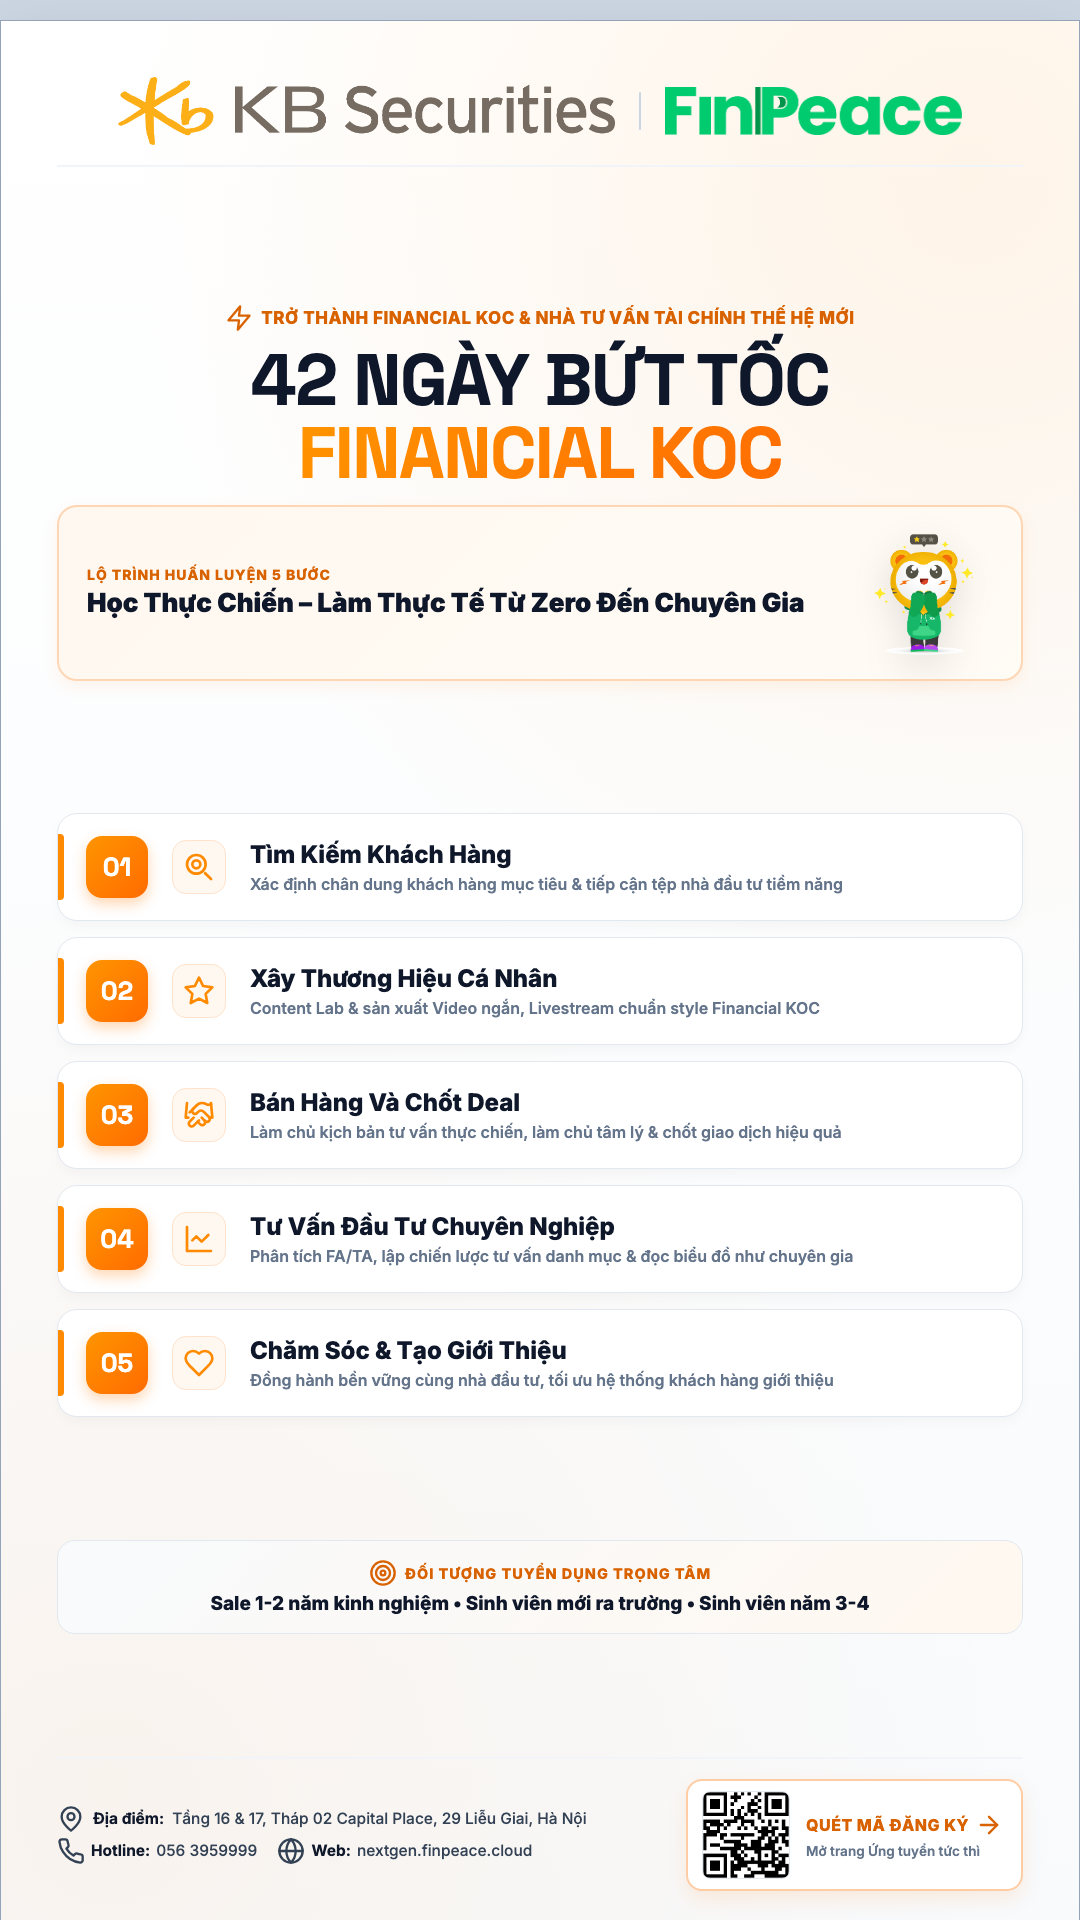
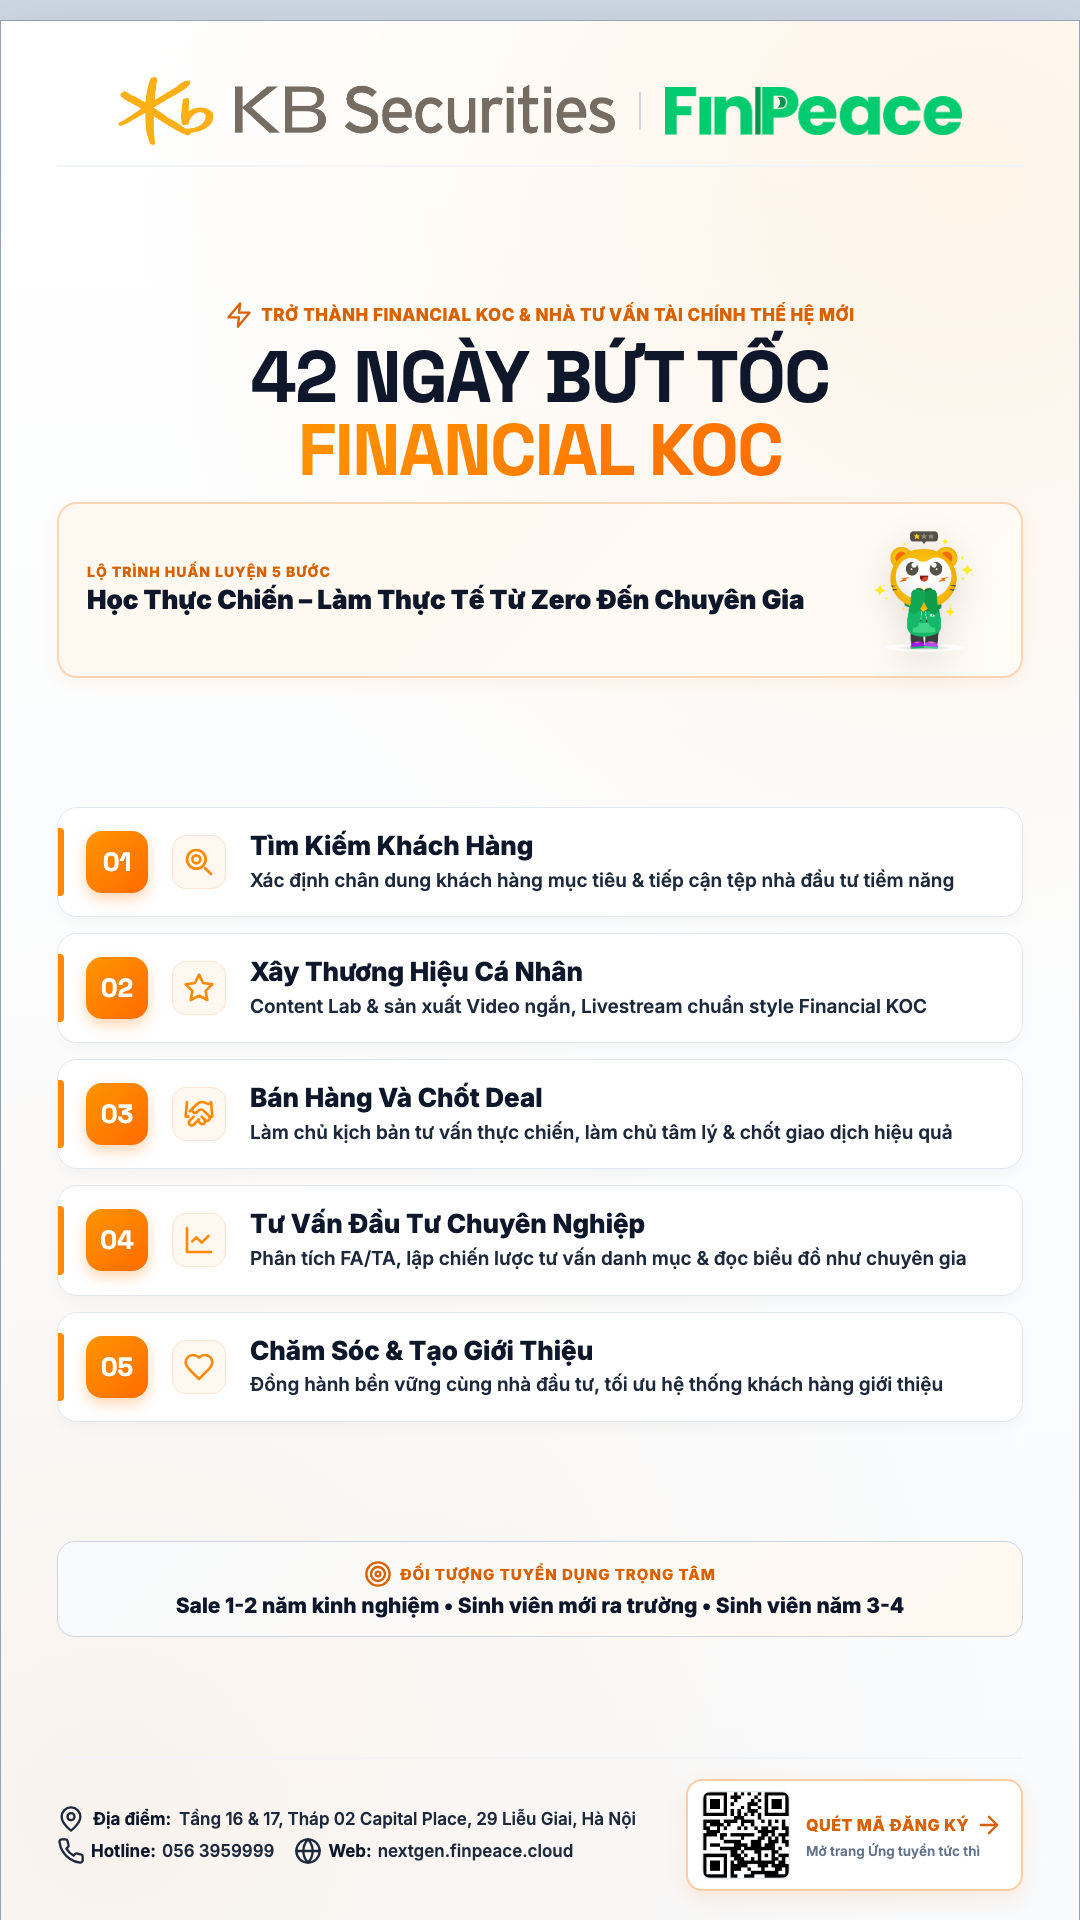
Increase main body text font size, weight and clarity for poster and mobile post

diff --git a/poster.html b/poster.html
@@ -133,13 +133,13 @@
         }
 
         .program-description {
-            font-size: 19.5px;
-            line-height: 1.52;
-            color: #334155;
-            font-weight: 600;
+            font-size: 22px;
+            line-height: 1.5;
+            color: #0f172a;
+            font-weight: 700;
             background: #f8fafc;
-            border-left: 5px solid #FF8A00;
-            padding: 18px 22px;
+            border-left: 6px solid #FF8A00;
+            padding: 20px 24px;
             border-radius: 0 14px 14px 0;
             border-top: 1px solid #f1f5f9;
             border-right: 1px solid #f1f5f9;
@@ -184,17 +184,17 @@
         }
         .ksp-card {
             background: #ffffff;
-            border: 1.5px solid #e2e8f0;
+            border: 1.5px solid #cbd5e1;
             border-radius: 18px;
             padding: 22px 24px;
             display: flex;
             gap: 16px;
             align-items: flex-start;
-            box-shadow: 0 4px 10px -2px rgba(0, 0, 0, 0.04);
+            box-shadow: 0 4px 12px -2px rgba(0, 0, 0, 0.05);
         }
         .ksp-icon-box {
-            width: 52px;
-            height: 52px;
+            width: 54px;
+            height: 54px;
             border-radius: 14px;
             display: flex;
             align-items: center;
@@ -205,16 +205,16 @@
             border: 1px solid #ffe3cc;
         }
         .ksp-info h4 {
-            font-size: 20px;
+            font-size: 21.5px;
             font-weight: 800;
             color: #0f172a;
             margin-bottom: 6px;
         }
         .ksp-info p {
-            font-size: 16px;
-            color: #475569;
+            font-size: 18.5px;
+            color: #1e293b;
             line-height: 1.48;
-            font-weight: 500;
+            font-weight: 600;
         }
 
         /* Target Audience Full-width Banner */
@@ -227,7 +227,7 @@
             z-index: 2;
         }
         .audience-box h5 {
-            font-size: 15px;
+            font-size: 15.5px;
             color: #d96200;
             text-transform: uppercase;
             letter-spacing: 1px;
@@ -238,7 +238,7 @@
             gap: 8px;
         }
         .audience-box p {
-            font-size: 19.5px;
+            font-size: 21.5px;
             font-weight: 800;
             color: #0f172a;
         }
@@ -256,10 +256,10 @@
         }
         .venue-info {
             flex: 1;
-            font-size: 15.5px;
-            color: #334155;
+            font-size: 17.5px;
+            color: #1e293b;
             line-height: 1.7;
-            font-weight: 500;
+            font-weight: 600;
         }
         .venue-info strong {
             color: #0f172a;

diff --git a/mobile_post.html b/mobile_post.html
@@ -230,22 +230,23 @@
             flex: 1;
         }
         .step-content h3 {
-            font-size: 24px;
+            font-size: 26px;
             font-weight: 800;
             color: #0f172a;
             line-height: 1.25;
             margin-bottom: 4px;
         }
         .step-content p {
-            font-size: 16px;
-            color: #64748b;
+            font-size: 19px;
+            color: #1e293b;
             font-weight: 600;
+            line-height: 1.45;
         }
 
         /* Target Audience Full-width Banner */
         .highlight-banner {
             background: linear-gradient(135deg, #f8fafc 0%, #fff8f0 100%);
-            border: 1.5px solid #e2e8f0;
+            border: 1.5px solid #cbd5e1;
             border-radius: 18px;
             padding: 18px 28px;
             position: relative;
@@ -253,7 +254,7 @@
             text-align: center;
         }
         .audience-box h5 {
-            font-size: 14.5px;
+            font-size: 15px;
             color: #d96200;
             text-transform: uppercase;
             letter-spacing: 1px;
@@ -265,7 +266,7 @@
             gap: 8px;
         }
         .audience-box p {
-            font-size: 19px;
+            font-size: 21px;
             font-weight: 800;
             color: #0f172a;
         }
@@ -283,10 +284,10 @@
         }
         .venue-info {
             flex: 1;
-            font-size: 15.5px;
-            color: #334155;
+            font-size: 17px;
+            color: #1e293b;
             line-height: 1.65;
-            font-weight: 500;
+            font-weight: 600;
         }
         .venue-info strong {
             color: #0f172a;
